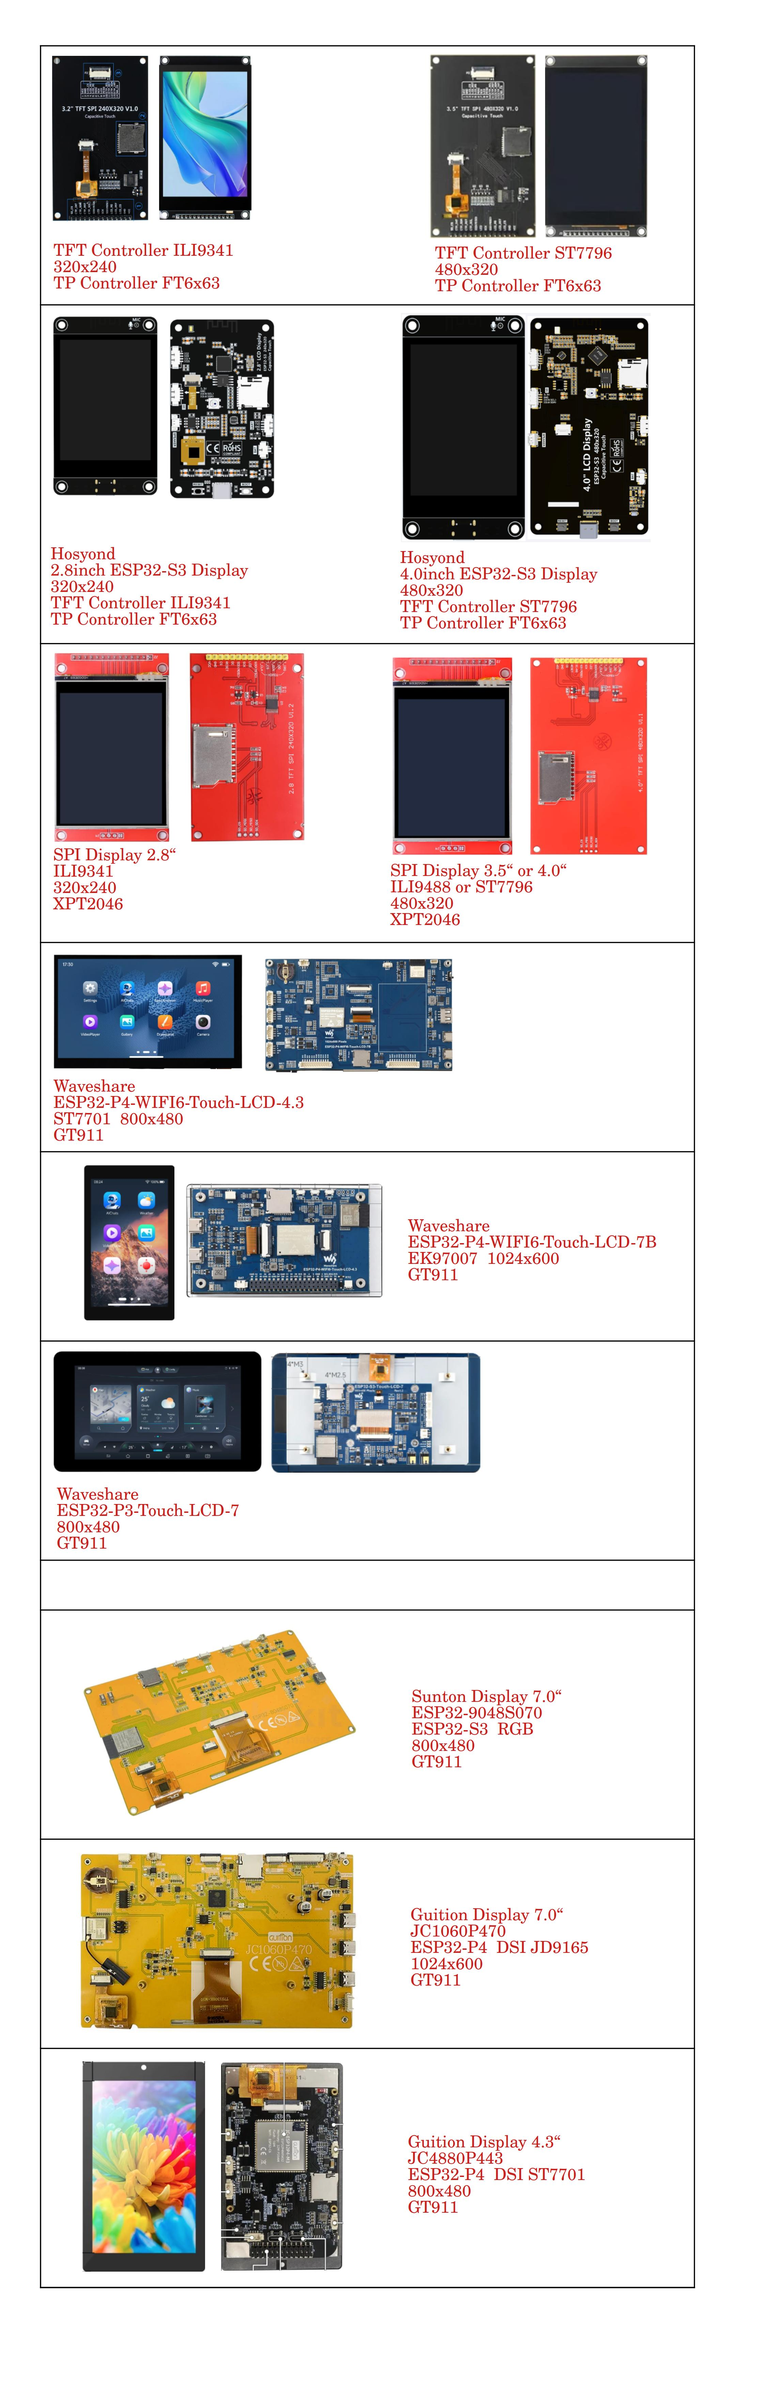
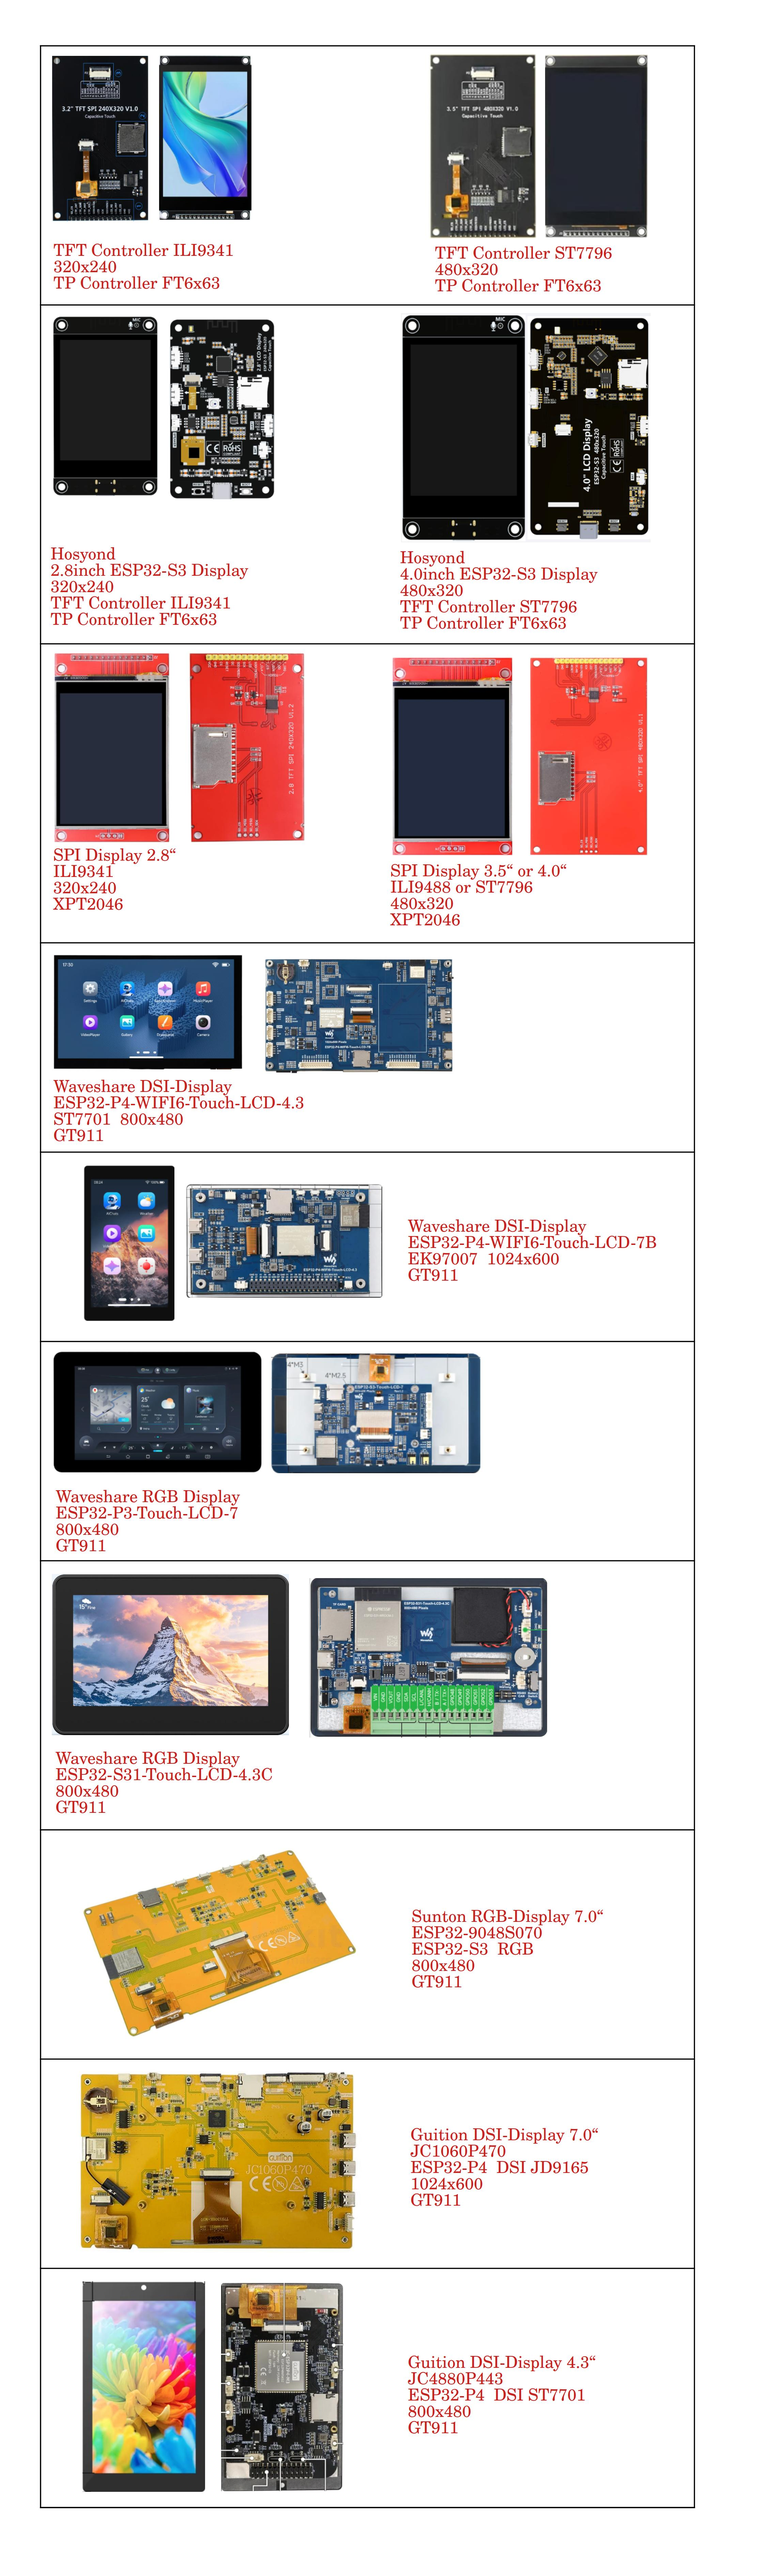
Add ESP32-S31 RGB Display Waveshare ESP32-S31-Touch-LCD-4.3C

diff --git a/src/settings.h b/src/settings.h
@@ -4,21 +4,23 @@
 #include "sdkconfig.h"       // get TARGET, e.g. CONFIG_IDF_TARGET_ESP32S31
 
 #undef I2S_DOUT
+#undef I2S_MCLK
 #include "../lib/tftLib/tft_structures.h"
 
 //———————————— predifined displays —————————————————————————————————————————————————————————————————————————————————————————————————————————————————————————————————————————————————————————————————————
 // #define SPI_DISPLAY 1                  //                    SPI display  320x240, 2.8inch,        ILI9341             XPT2046  /*.------*/
 // #define SPI_DISPLAY 2                  //                    SPI display  320x240, 3.2inch,        ILI9341             FT6x63   /*.------*/
 // #define SPI_DISPLAY 3                  //                    SPI display  480x320, 3.5" od 4"      ILI9488 or ST7796,  XPT2046  /*.------*/
-#define SPI_DISPLAY 4                  //                    SPI display  480x320, 3.5" od 4"      ILI9488 or ST7796,  FT6x63    /*.------*/
-// #define LCD_DISPLAY_ESP32_S3_28        // Hosyond            SPI display  320x240, 2.8inch,        ILI9341             FT6x63,  ESP32s3 N16R8
-// #define LCD_DISPLAY_ESP32_S3_40        // Hosyond            SPI display  480x320, 4"              ST7796,             FT6x63,  ESP32s3 N16R8
-// #define ESP32_8048S070                 // Sunton             RGB display  800x480, 7",                                 GT911,   ESP32s3 N16R8
-// #define ESP32_S3_Touch_LCD7            // Waveshare          RGB display  800x480, 7",                                 GT911,   ESP32s3 N8R8
-// #define ESP32_P4_WIFI6_TOUCH_LCD_43    // Waveshare          DSI display  800x480, 4.3",           ST7701,             GT911,   ESP32p4 N32R32
-// #define ESP32_P4_WIFI6_TOUCH_LCD7_7B   // Waveshare          DSI display 1024x600, 7",             EK97007,            GT911,   ESP32p4_es N32R32
-// #define JC1060P470                     // Guition            DSI display 1024x600, 7",             JD9165,             GT911,   ESP32p4_es N32R32
-// #define JC4880P443                     // Guition            DSI display  800x480, 4.3",           ST7701,             GT911,   ESP32p4_es N16R32
+// #define SPI_DISPLAY 4                  //                    SPI display  480x320, 3.5" od 4"      ILI9488 or ST7796,  FT6x63    /*.------*/
+// #define LCD_DISPLAY_ESP32_S3_28        // Hosyond            SPI display  320x240, 2.8inch,        ILI9341             FT6x63,  esp32s3 N16R8
+// #define LCD_DISPLAY_ESP32_S3_40        // Hosyond            SPI display  480x320, 4"              ST7796,             FT6x63,  esp32s3 N16R8
+// #define ESP32_8048S070                 // Sunton             RGB display  800x480, 7",             ST7262              GT911,   esp32s3 N16R8
+// #define ESP32_S3_Touch_LCD7            // Waveshare          RGB display  800x480, 7",             ST7262              GT911,   esp32s3 N8R8
+#define ESP32_S31_Touch_LCD_43C        // Waveshare          RGB display  800x480, 4.3",           ST7262              GT911,   esp32s31 N16R16V
+// #define ESP32_P4_WIFI6_TOUCH_LCD_43    // Waveshare          DSI display  800x480, 4.3",           ST7701,             GT911,   esp32p4 N32R32
+// #define ESP32_P4_WIFI6_TOUCH_LCD7_7B   // Waveshare          DSI display 1024x600, 7",             EK97007,            GT911,   esp32p4_es N32R32
+// #define JC1060P470                     // Guition            DSI display 1024x600, 7",             JD9165,             GT911,   esp32p4_es N32R32
+// #define JC4880P443                     // Guition            DSI display  800x480, 4.3",           ST7701,             GT911,   esp32p4_es N16R32
 // #define USER_DEFINED_DISPLAY           // Self configurated ESP32-S3 or ESP32-P4 devBoard with SPI display
 
 //———————————— common ——————————————————————————————————————————————————————————————————————————————————————————————————————————————————————————————————————————————————————————————————————————————————
@@ -458,7 +460,55 @@ const Timing RGB_TIMING = {.h_res = 800, .v_res = 480, .pixel_clock_hz = 1300000
         #define I2C_SCL              9 // I2C clock line for capacitive touchpad (-1 if not used)
     #endif
 #endif // CONFIG_IDF_TARGET_ESP32S3
+// —————————————————————————————————————————————————————————————————————————————————————————————————————————————————————————————————————————————————————————————————————————————————————————————————————
+// 📌📌📌  RGB-DISPLAY [800x480] ESP32-S31 WAVESHARE 4.3"   📌📌📌
+// —————————————————————————————————————————————————————————————————————————————————————————————————————————————————————————————————————————————————————————————————————————————————————————————————————
+#if (CONFIG_IDF_TARGET_ESP32S31 == 1)
+    #ifdef ESP32_S31_Touch_LCD_43C
+        #define TFT_CONTROLLER       7 // (7)RGB[800x480]
+        #define TFT_ROTATION         0 // (0) none, (1) 90°CW, (2) 180°CW, (3) 270°CW
+        #define TP_CONTROLLER        7 // (7)GT911
+        #define TP_ROTATION          3 // (0) none, (1) 90°CW, (2) 180°CW, (3) 270°CW
+        #define TP_H_MIRROR          0 // (0) default, (1) mirror left <-> right
+        #define TP_V_MIRROR          0 // (0) default, (1) mirror up <-> down
+        #define DISPLAY_INVERSION    0 // (0) off (1) on
+        #define BRIGHTNESS_INVERSION 1 // (0) off (1) on, bg-led
+        #define BRIGHTNESS_MIN       0 // not used
+        #define AMP_EN_INVERSION     0 // (0) HIGH - amp is enabled, (1) LOW - amp is enabled
+const Pins RGB_PINS = { // WAVESHARE
+    .b0 = 8, .b1 = 9, .b2 = 10, .b3 = 11, .b4 = 12, .g0 = 13, .g1 = 14, .g2 = 15, .g3 = 16, .g4 = 17, .g5 = 18, .r0 = 19, .r1 = 33, .r2 = 34, .r3 = 35, .r4 = 36, .hsync = 44, .vsync = 45, .de = 43, .pclk = 40, .bl = -1};
 
+const Timing RGB_TIMING = {.h_res = 800, .v_res = 480, .pixel_clock_hz = 15000000, .hsync_pulse_width = 4, .hsync_back_porch = 8, .hsync_front_porch = 8, .vsync_pulse_width = 4, .vsync_back_porch = 8, .vsync_front_porch = 8};
+        #define TP_IRQ              -1
+
+        #define SD_MMC_CMD          25
+        #define SD_MMC_CLK          24
+        #define SD_MMC_D0           20
+        #define SD_MMC_D1           -1 //  21
+        #define SD_MMC_D2           -1 //  22
+        #define SD_MMC_D3           -1 //  23
+
+        #define I2S_DOUT            39 // 42
+        #define I2S_BCLK            37
+        #define I2S_LRC             38
+        #define I2S_MCLK            -1 // important, don't change!
+
+        #define IR_PIN              49  // IR Receiver (if available)
+        #define BT_EMITTER_RX       -1 // must be -1, not enough pins
+        #define BT_EMITTER_TX       -1 // must be -1, not enough pins
+        #define BT_EMITTER_LINK     -1 // must be -1, not enough pins
+        #define BT_EMITTER_MODE     -1 // must be -1, not enough pins
+        #define BT_EMITTER_CONNECT  -1 // must be -1, not enough pins
+
+        #define TFT_BL              47 // same as RGB_PINS.bl
+        #define AMP_ENABLED         57 // control pin for extenal amplifier (if available)
+
+        #define I2C_SDA              0 // I2C dala line for capacitive touchpad  (-1 if not used)
+        #define I2C_SCL              1 // I2C clock line for capacitive touchpad (-1 if not used)
+
+
+    #endif
+#endif
 // —————————————————————————————————————————————————————————————————————————————————————————————————————————————————————————————————————————————————————————————————————————————————————————————————————
 // 📌📌📌  DSI-DISPLAY [800x480] ESP32-P4 WAVESHARE 4.3"   📌📌📌
 // —————————————————————————————————————————————————————————————————————————————————————————————————————————————————————————————————————————————————————————————————————————————————————————————————————

diff --git a/src/main.cpp b/src/main.cpp
@@ -8,7 +8,7 @@
     MiniWebRadio -- Webradio receiver for ESP32-S3
 
     first release on 03/2017                                                                                                      */char Version[] ="\
-    Version 4.2.1h3 - Nov 27, 2026                                                                                                               ";
+    Version 4.2.2 - Nov 27, 2026                                                                                                               ";
 
 /*  display (320x240px) with controller ILI9341 or
     display (480x320px) with controller ILI9486, ILI9488 or ST7796 (SPI) or
@@ -1470,6 +1470,22 @@ bool detect_i2_c_devices(TwoWire* twi, int8_t sda, int8_t scl, i2c_items_s* i2c_
 
     for (uint8_t addr = 0; addr < 128; addr++) {
         if (arr[addr]) {
+            //-- ES8389 Stereo DAC --------------------------------------------------------------------------------------------------------
+            if (addr == 0x10) {
+                i2c_items->es8389_found = true;
+                i2c_items->es8389_addr = addr;
+                printfln(s_tag.setup, "ES8389 (Stereo Audio Codecr) found at " ANSI_ESC_CYAN "0x{:X}", addr);
+                continue;
+            }
+            //-- ES8311 Mono DAC ----------------------------------------------------------------------------------------------------------
+            if (addr == 0x18 || addr == 0x19) {
+                if (i2c_looks_like_es8311(twi, addr)) {
+                    i2c_items->es8311_found = true;
+                    i2c_items->es8311_addr = 0x18;
+                    printfln(s_tag.setup, "ES8311 (Mono Audio Codec) found at " ANSI_ESC_CYAN "0x{:X}", 0x18);
+                    continue;
+                }
+            }
             //-- CH422G  I/O Extended (Digital Tube Display Drive) ----------------------------------------------------------------------------------------------------------
             if (addr == 0x20) {
                 if (arr[0x21] && arr[0x22] && arr[0x23] && arr[0x24] && arr[0x25] && arr[0x26] && arr[0x27]) {
@@ -1481,20 +1497,11 @@ bool detect_i2_c_devices(TwoWire* twi, int8_t sda, int8_t scl, i2c_items_s* i2c_
                     continue;
                 }
             }
-            //-- ES8311 Mono DAC ----------------------------------------------------------------------------------------------------------
-            if (addr == 0x18 || addr == 0x19) {
-                if (i2c_looks_like_es8311(twi, addr)) {
-                    i2c_items->es8311_found = true;
-                    i2c_items->es8311_addr = 0x18;
-                    printfln(s_tag.setup, "es8311 (Mono Audio Codec) found at " ANSI_ESC_CYAN "0x{:X}", 0x18);
-                    continue;
-                }
-            }
             //-- GT911 Touch Controller ----------------------------------------------------------------------------------------------------------
             if (addr == 0x14 || addr == 0x5D) {
                 i2c_items->gt911_found = true;
                 i2c_items->gt911_addr = addr;
-                printfln(s_tag.setup, "gt911 (Capacitive Touch Controller) found at " ANSI_ESC_CYAN "0x{:X}", addr);
+                printfln(s_tag.setup, "GT911 (Capacitive Touch Controller) found at " ANSI_ESC_CYAN "0x{:X}", addr);
                 continue;
             }
             //-- BH1750 --------------------------------------------------------------------------------------------------------------------------
@@ -1508,14 +1515,14 @@ bool detect_i2_c_devices(TwoWire* twi, int8_t sda, int8_t scl, i2c_items_s* i2c_
             if (addr == 0x38) {
                 i2c_items->ft6x36u_found = true;
                 i2c_items->ft6x36u_addr = addr;
-                printfln(s_tag.setup, "ft6x36u (Capacitive Touch Controller) found at " ANSI_ESC_CYAN "0x{:X}", addr);
+                printfln(s_tag.setup, "FT6x36u (Capacitive Touch Controller) found at " ANSI_ESC_CYAN "0x{:X}", addr);
                 continue;
             }
             //-- ES7210 Codec --------------------------------------------------------------------------------------------------------------------
             if (addr == 0x40) {
                 i2c_items->es7210_found = true;
                 i2c_items->es7210_addr = addr;
-                printfln(s_tag.setup, "es7210 (Four Channels Audio ADC) found at " ANSI_ESC_CYAN "0x{:X}", addr);
+                printfln(s_tag.setup, "ES7210 (Four Channels Audio ADC) found at " ANSI_ESC_CYAN "0x{:X}", addr);
                 continue;
             }
             //-- TCA9554 port expander -----------------------------------------------------------------------------------------------------------
@@ -1525,11 +1532,32 @@ bool detect_i2_c_devices(TwoWire* twi, int8_t sda, int8_t scl, i2c_items_s* i2c_
                 printfln(s_tag.setup, "TCA9554 (8 Channel Port Expander) found at " ANSI_ESC_CYAN "0x{:X}", addr);
                 continue;
             }
+            //-- PCF8506a Real-Time-Clock --------------------------------------------------------------------------------------------------------
+            if (addr == 0x51) {
+                i2c_items->pcf8506a_found = true;
+                i2c_items->pcf8506a_addr = addr;
+                printfln(s_tag.setup, "PCF85063A (Real Time Clock) found at " ANSI_ESC_CYAN "0x{:X}", addr);
+                continue;
+            }
             //-- PCM5122 DAC -----------------------------------------------------------------------------------------------------------
             if (addr == 0x4C) {
                 i2c_items->pcm5122_found = true;
                 i2c_items->pcm5122_addr = addr;
                 printfln(s_tag.setup, "PCM5122 (I2S DAC) found at " ANSI_ESC_CYAN "0x{:X}", addr);
+                continue;
+            }
+            //-- QMI8658 3-Axix Accellerator-------------------------------------------------------------------------------------------------------
+            if (addr == 0x6B) {
+                i2c_items->qmi8658_found = true;
+                i2c_items->qmi8658_addr = addr;
+                printfln(s_tag.setup, "QMI8658 (3-Axis Accellerator) found at " ANSI_ESC_CYAN "0x{:X}", addr);
+                continue;
+            }
+            //-- BQ27220 (Battery Fuel Gauge)-----------------------------------------------------------------------------------------------------
+            if (addr == 0x7E) {
+                i2c_items->bq27220_found = true;
+                i2c_items->bq27220_addr = addr;
+                printfln(s_tag.setup, "BQ27220 (Battery Fuel Gauge) found at " ANSI_ESC_CYAN "0x{:X}", addr);
                 continue;
             }
             //-- Unknown Device  ------------------------------------------------------------------------------------------------------------------
@@ -1566,12 +1594,12 @@ void set_tft_items() {
     getTFT().setFrequency(TFT_FREQUENCY);
     getTFT().setBackGoundColor(TFT_BLACK);
 #elifdef TFT_MODE_RGB
-    getTFT().begin(RGB_PINS, RGB_TIMING);
-    getTFT().setDisplayInversion(false);
     getTFT().setRotation(TFT_ROTATION);
-    vTaskDelay(100 / portTICK_PERIOD_MS); // wait for TFT to be ready
-    getTFT().reset();
-    vTaskDelay(100 / portTICK_PERIOD_MS); // wait for TFT to be ready
+    getTFT().begin(RGB_PINS, RGB_TIMING);
+    vTaskDelay(200 / portTICK_PERIOD_MS); // wait for TFT to be ready
+    getTFT().setDisplayInversion(false);
+    // getTFT().reset();
+    // vTaskDelay(100 / portTICK_PERIOD_MS); // wait for TFT to be ready
 #elifdef TFT_MODE_DSI
     getTFT().begin(DSI_TIMING);
     getTFT().setRotation(TFT_ROTATION);

diff --git a/lib/tftLib/tft_rgb.cpp b/lib/tftLib/tft_rgb.cpp
@@ -2,7 +2,6 @@
 // updated on Nov 16 2026
 
 #include "Arduino.h"
-#include "esp_idf_version.h" // get IDF e.g. ESP_IDF_VERSION_MAJOR
 #include "sdkconfig.h"       // get TARGET, e.g. CONFIG_IDF_TARGET_ESP32S31
 
 #if(defined(CONFIG_IDF_TARGET_ESP32S3) || defined(CONFIG_IDF_TARGET_ESP32S31))
@@ -93,7 +92,6 @@ void TFT_RGB::begin(const Pins& newPins, const Timing& newTiming) {
     ESP_ERROR_CHECK(esp_lcd_new_rgb_panel(&panel_config, &m_panel));
     ESP_ERROR_CHECK(esp_lcd_panel_reset(m_panel));
     ESP_ERROR_CHECK(esp_lcd_panel_init(m_panel));
-    if (tft_info) tft_info("Display initialisiert.");
 
     // Hintergrundbeleuchtung einschalten
     if (m_pins.bl >= 0) {
@@ -123,6 +121,8 @@ void TFT_RGB::begin(const Pins& newPins, const Timing& newTiming) {
     esp_lcd_rgb_panel_register_event_callbacks(m_panel, &cbs, this);
     esp_lcd_rgb_panel_refresh(m_panel);
     m_rowBuffer = (uint8_t*)ps_malloc(m_rowBufferSize);
+    if (tft_info) tft_info("Display initialisiert.");
+
 }
 // ——————————————————————————————————————————————————————————————————————————————————————————————————————————————————————————————————————————————————————————————————————————————————————————————————————
 void TFT_RGB::reset() {

diff --git a/src/mwr_src/common.h b/src/mwr_src/common.h
@@ -158,6 +158,8 @@ struct tone_s {
 struct i2c_items_s {
     bool es8311_found = false;
     int  es8311_addr = -1;
+    bool es8389_found = false;
+    int  es8389_addr = -1;
     bool es7210_found = false;
     int  es7210_addr = -1;
     bool gt911_found = false;
@@ -172,6 +174,12 @@ struct i2c_items_s {
     int  ch422g_addr = -1;
     bool pcm5122_found = false;
     int  pcm5122_addr = -1;
+    bool pcf8506a_found  = false;
+    int  pcf8506a_addr = -1;
+    bool qmi8658_found = false;
+    int  qmi8658_addr = -1;
+    bool bq27220_found = false;
+    int  bq27220_addr = -1;
 } s_i2c_items;
 
 struct tag_s {
